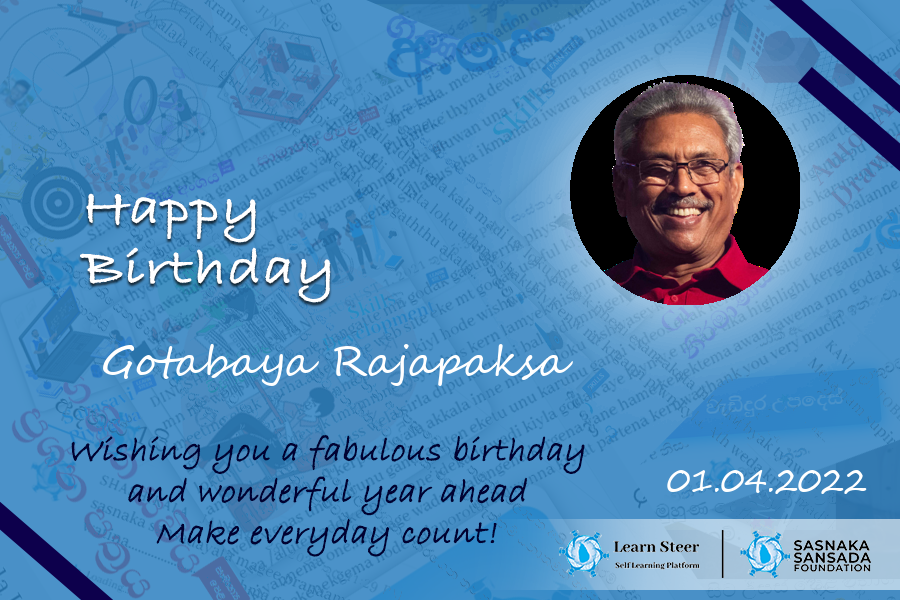
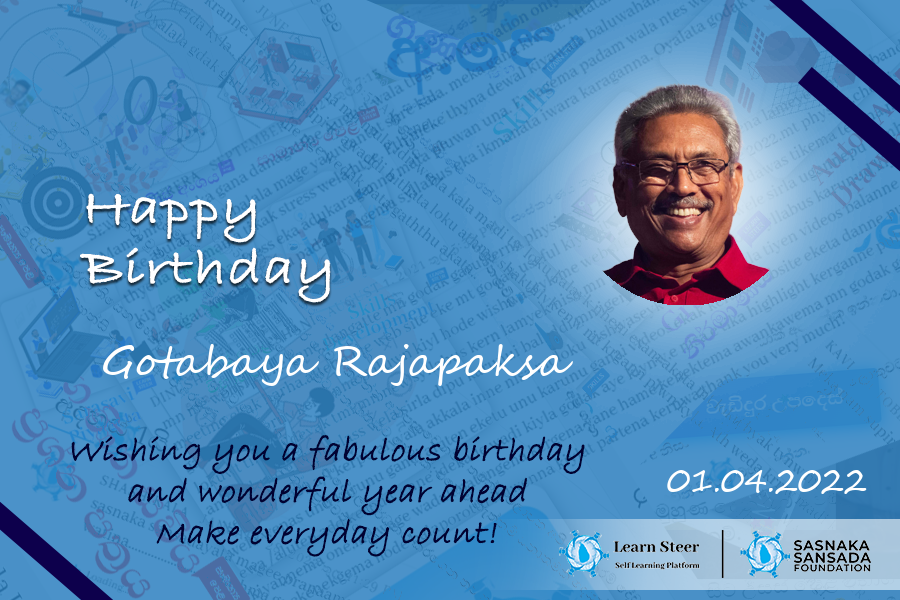
All Done !
corrected with circle cropping !

Changed region(s): [[0.6222, 0.12, 0.9022, 0.45]]

diff --git a/createImage.py b/createImage.py
@@ -1,4 +1,5 @@
 import os,requests
+from turtle import bgcolor
 from tkinter import PhotoImage
 
 dir_path = os.path.dirname(os.path.realpath(__file__))
@@ -6,21 +7,7 @@ dir_path = os.path.dirname(os.path.realpath(__file__))
 from PIL import Image, ImageFont, ImageDraw, ImageOps
 import datetime
 
-fileforbackgroundremover = os.listdir(f'{dir_path}/Images/')
 
-
-filename = 'images/'+ fileforbackgroundremover[0]
-response = requests.post(
-    'https://api.remove.bg/v1.0/removebg',
-    files={'image_file': open(filename, 'rb')},
-    data={'size': 'auto'},
-    headers={'X-Api-Key': 'mHJmyP9XPKAcTUCVXHtE8tut'},
-)
-if response.status_code == requests.codes.ok:
-    with open('Photo of Friend/nobg.png', 'wb') as out:
-        out.write(response.content)
-else:
-    print("Error:", response.status_code, response.text)
 
 
 nameOfFriend=input("Enter the Name of the Friend :")
@@ -51,14 +38,14 @@ mask = Image.new('L',maskSize,0)
 draw = ImageDraw.Draw(mask)
 draw.ellipse((0,0)+maskSize,fill=255)
 
-fileOfPhoto = os.listdir(f'{dir_path}/Photo of Friend/')
+fileOfPhoto = os.listdir(f'{dir_path}/Images/')
 
 if(fileOfPhoto.__len__() > 1):
     print('Try Again!')
     print("please leave only 1 photo in 'Photos of Friend' folder...")
     exit()
 
-photoOfFriend = Image.open(f'{dir_path}/Photo of Friend/{fileOfPhoto[0]}').convert("RGBA")
+photoOfFriend = Image.open(f'{dir_path}/Images/{fileOfPhoto[0]}').convert("RGBA")
 photoOfFriend = photoOfFriend.convert("RGBA")
 croppedPhoto = ImageOps.fit(photoOfFriend, mask.size, centering=(0.5,0.5))
 
@@ -66,11 +53,28 @@ if(isCircle =="Y"):
     croppedPhoto.putalpha(mask)
 
 croppedPhoto = croppedPhoto.convert("RGBA")
+croppedPhoto.save(f'{dir_path}/cropped_photo/cropped.png')
+
+fileforbackgroundremover = os.listdir(f'{dir_path}/cropped_photo/')
 
 
+filename = 'cropped_photo/'+ fileforbackgroundremover[0]
+response = requests.post(
+    'https://api.remove.bg/v1.0/removebg',
+    files={'image_file': open(filename, 'rb')},
+    data={'size': 'auto'},
+    headers={'X-Api-Key': 'mHJmyP9XPKAcTUCVXHtE8tut'},
+)
+if response.status_code == requests.codes.ok:
+    with open('Photo of Friend/nobg.png', 'wb') as out:
+        out.write(response.content)
+else:
+    print("Error:", response.status_code, response.text)
+
+readyimage = Image.open(f'{dir_path}/Photo of Friend/nobg.png').convert("RGBA")
 
 myImage = myImage.convert("RGBA")
-myImage.paste(croppedPhoto,(570,75), croppedPhoto)
+myImage.paste(readyimage,(570,75), readyimage)
 
 
 
